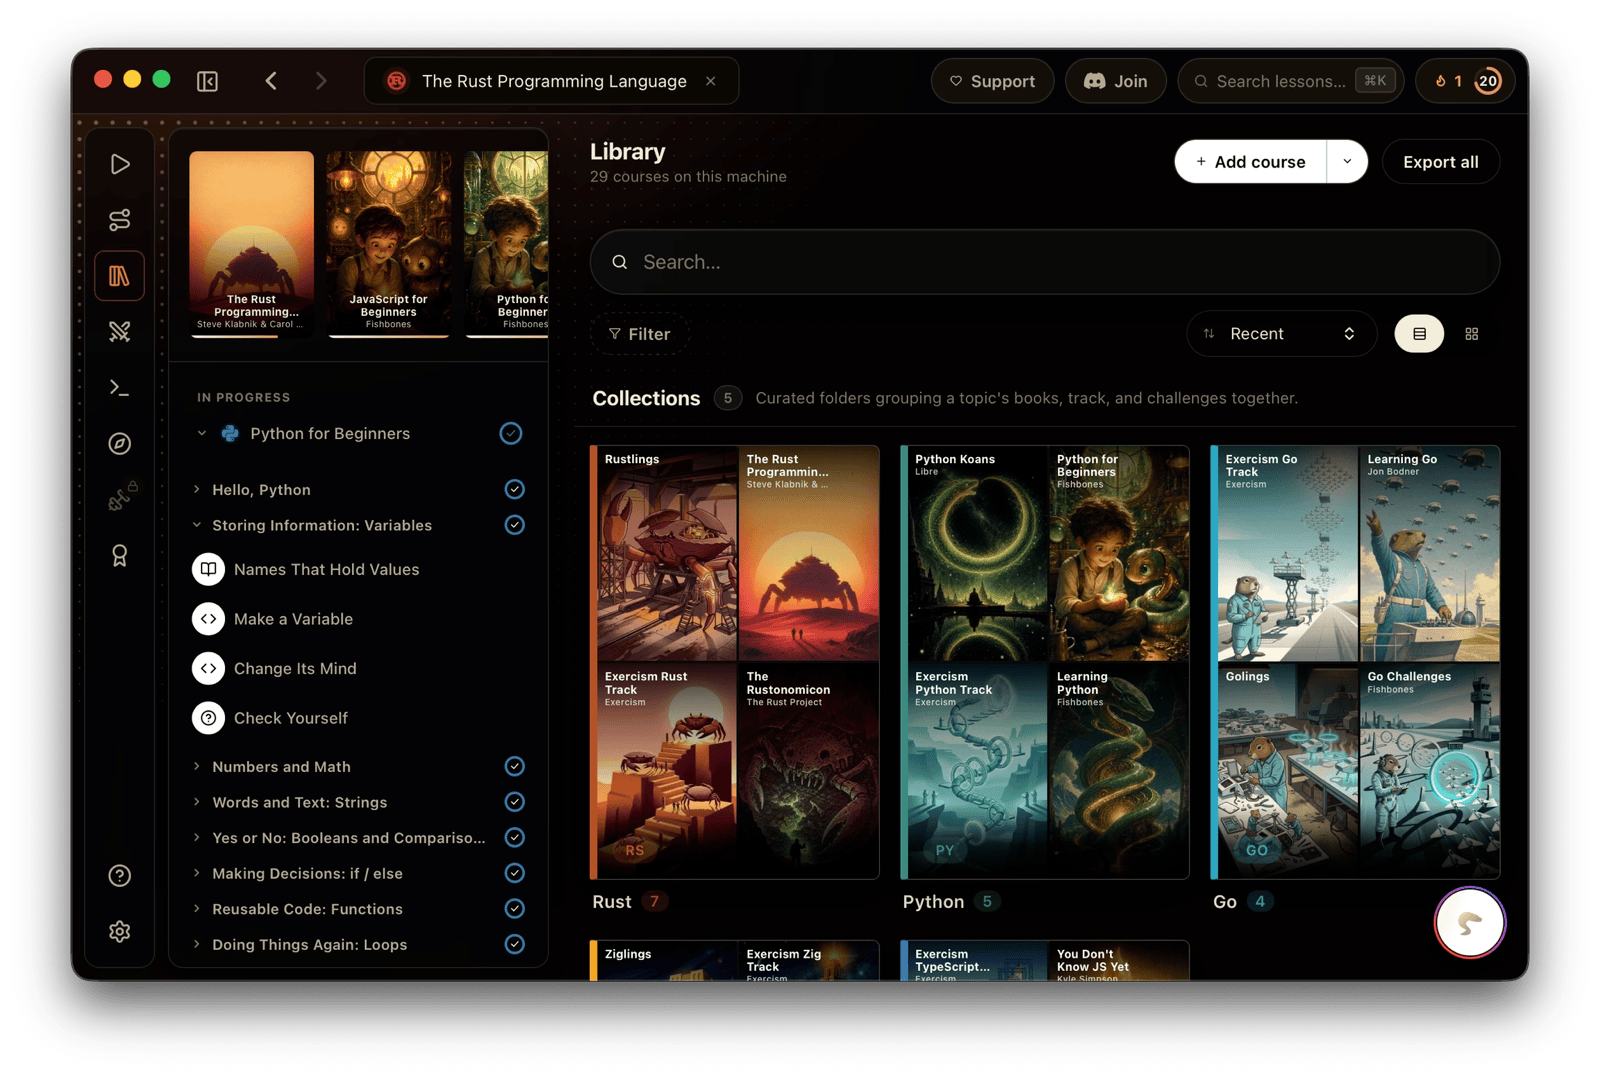
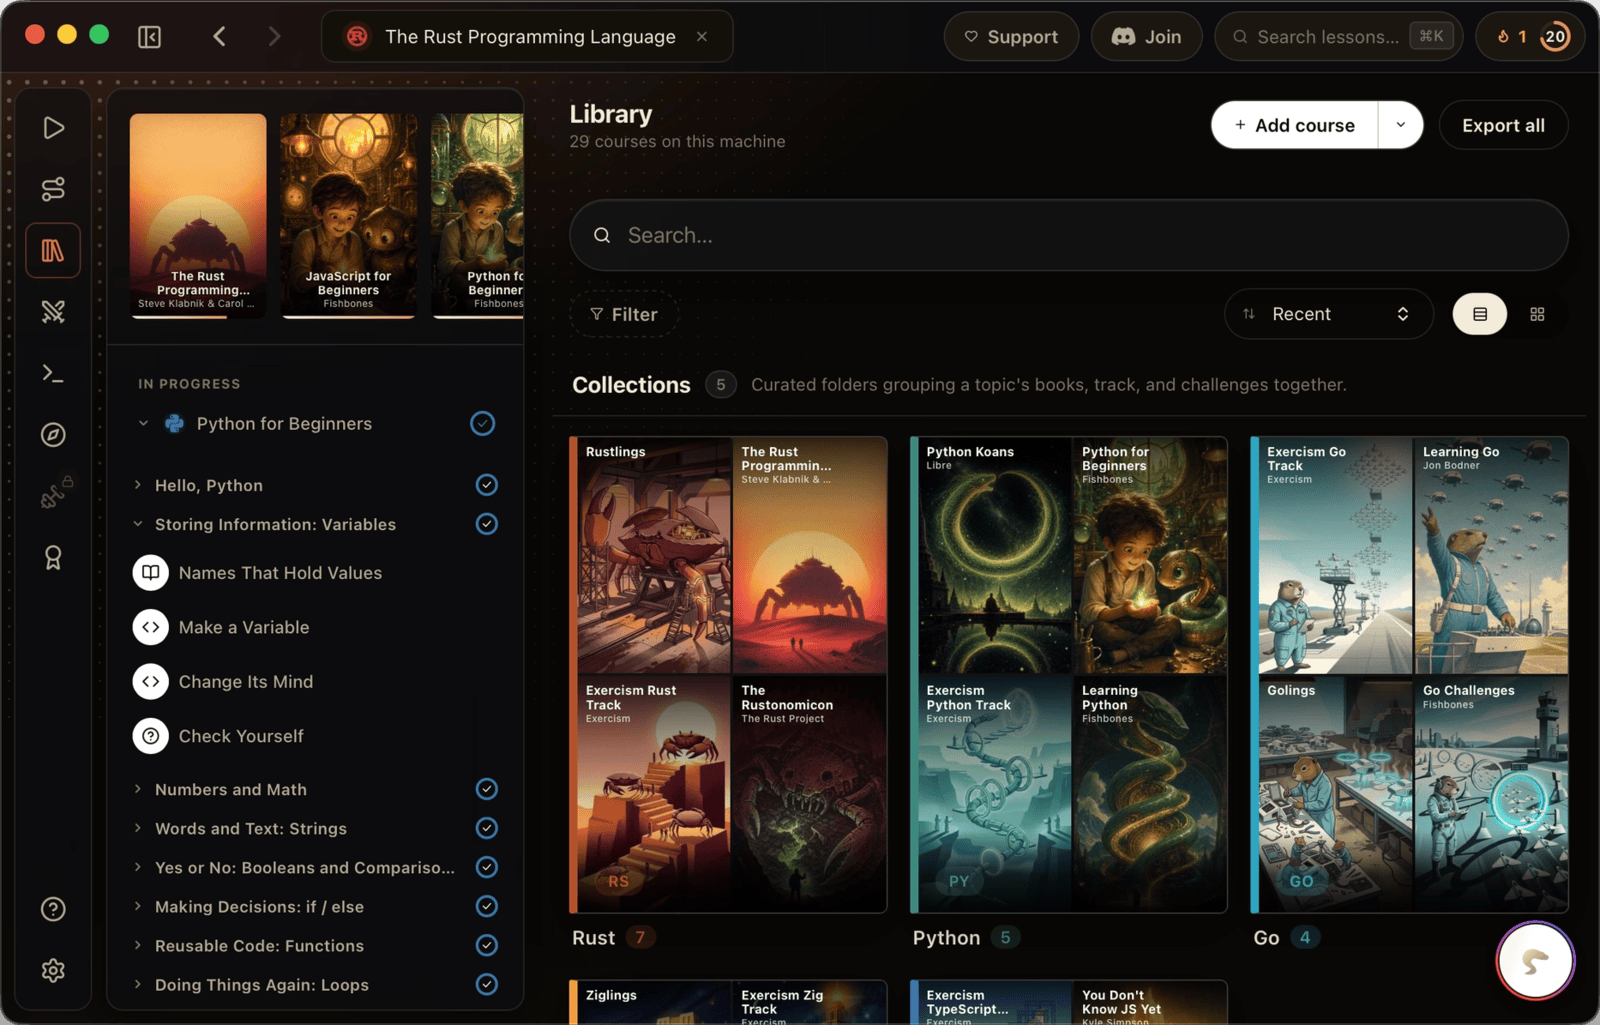
Turn the homepage app shot into a screenshot carousel
Crop each screenshot tight to the window (alpha-threshold trim drops the
transparent macOS shadow margin — the 'white space'), and swap the single
framed shot for an auto-advancing crossfade carousel (pause on hover,
arrows + pill dots, reduced-motion safe). Seeds with the library +
collections-lesson shots.

diff --git a/src/components/ScreenshotCarousel.tsx b/src/components/ScreenshotCarousel.tsx
@@ -1,0 +1,98 @@
+/// A small auto-advancing carousel of app screenshots for the homepage.
+/// Slides crossfade (opacity only — cheap + GPU-composited), auto-advance
+/// every few seconds, pause on hover/focus, and can be driven by the dots
+/// or the hover arrows. `prefers-reduced-motion` stops the auto-advance
+/// and the fade, leaving a manually-navigable gallery.
+
+import { useEffect, useState } from "react";
+import { useReducedMotion } from "framer-motion";
+import { ChevronLeft, ChevronRight } from "lucide-react";
+import "./ScreenshotCarousel.css";
+
+export interface Shot {
+  src: string;
+  alt: string;
+}
+
+export function ScreenshotCarousel({
+  images,
+  interval = 5000,
+}: {
+  images: Shot[];
+  interval?: number;
+}) {
+  const [index, setIndex] = useState(0);
+  const [paused, setPaused] = useState(false);
+  const reduce = useReducedMotion();
+  const n = images.length;
+
+  const go = (i: number) => setIndex(((i % n) + n) % n);
+
+  useEffect(() => {
+    if (reduce || paused || n <= 1) return;
+    const id = setInterval(() => setIndex((x) => (x + 1) % n), interval);
+    return () => clearInterval(id);
+  }, [reduce, paused, n, interval]);
+
+  return (
+    <div
+      className="shotcar"
+      onMouseEnter={() => setPaused(true)}
+      onMouseLeave={() => setPaused(false)}
+      onFocusCapture={() => setPaused(true)}
+      onBlurCapture={() => setPaused(false)}
+    >
+      <div className="shotcar__frame">
+        {images.map((img, i) => (
+          <img
+            key={img.src}
+            src={img.src}
+            alt={i === index ? img.alt : ""}
+            className={`shotcar__img${i === index ? " shotcar__img--active" : ""}`}
+            draggable={false}
+            loading={i === 0 ? "eager" : "lazy"}
+            decoding="async"
+            aria-hidden={i !== index}
+          />
+        ))}
+
+        {n > 1 && (
+          <>
+            <button
+              type="button"
+              className="shotcar__arrow shotcar__arrow--prev"
+              onClick={() => go(index - 1)}
+              aria-label="Previous screenshot"
+            >
+              <ChevronLeft size={20} />
+            </button>
+            <button
+              type="button"
+              className="shotcar__arrow shotcar__arrow--next"
+              onClick={() => go(index + 1)}
+              aria-label="Next screenshot"
+            >
+              <ChevronRight size={20} />
+            </button>
+          </>
+        )}
+      </div>
+
+      {n > 1 && (
+        <div className="shotcar__dots" role="tablist" aria-label="Screenshots">
+          {images.map((img, i) => (
+            <button
+              key={img.src}
+              type="button"
+              className={`shotcar__dot${i === index ? " shotcar__dot--active" : ""}`}
+              onClick={() => setIndex(i)}
+              aria-label={`Show screenshot ${i + 1} of ${n}`}
+              aria-selected={i === index}
+              role="tab"
+            />
+          ))}
+        </div>
+      )}
+    </div>
+  );
+}

diff --git a/src/components/ScreenshotCarousel.css b/src/components/ScreenshotCarousel.css
@@ -1,0 +1,104 @@
+/* Homepage app-screenshot carousel. See ScreenshotCarousel.tsx. */
+
+.shotcar {
+  max-width: 1080px;
+  margin: 0 auto;
+}
+
+.shotcar__frame {
+  position: relative;
+  width: 100%;
+  /* Fixed ratio so the box never reflows between slides (the cropped
+     shots are ~1.56:1). */
+  aspect-ratio: 1600 / 1025;
+  border-radius: 16px;
+  overflow: hidden;
+  border: 1px solid color-mix(in srgb, #ffffff 12%, transparent);
+  /* Floating app-window look: deep drop shadow + a faint amber glow. */
+  box-shadow:
+    0 40px 90px -30px rgba(0, 0, 0, 0.85),
+    0 0 70px -24px rgba(242, 169, 59, 0.22);
+  background: var(--color-bg-secondary, #18181b);
+}
+
+.shotcar__img {
+  position: absolute;
+  inset: 0;
+  width: 100%;
+  height: 100%;
+  object-fit: cover;
+  opacity: 0;
+  transition: opacity 0.6s ease;
+  pointer-events: none;
+}
+
+.shotcar__img--active {
+  opacity: 1;
+}
+
+.shotcar__arrow {
+  position: absolute;
+  top: 50%;
+  transform: translateY(-50%);
+  width: 40px;
+  height: 40px;
+  display: inline-flex;
+  align-items: center;
+  justify-content: center;
+  border-radius: 999px;
+  background: rgba(9, 9, 11, 0.55);
+  border: 1px solid color-mix(in srgb, #ffffff 14%, transparent);
+  color: #fff;
+  backdrop-filter: blur(8px);
+  -webkit-backdrop-filter: blur(8px);
+  cursor: pointer;
+  opacity: 0;
+  transition: opacity 0.2s ease, background 0.15s ease;
+}
+
+.shotcar:hover .shotcar__arrow,
+.shotcar:focus-within .shotcar__arrow {
+  opacity: 1;
+}
+
+.shotcar__arrow:hover {
+  background: rgba(9, 9, 11, 0.82);
+}
+
+.shotcar__arrow--prev {
+  left: 14px;
+}
+.shotcar__arrow--next {
+  right: 14px;
+}
+
+.shotcar__dots {
+  display: flex;
+  justify-content: center;
+  gap: 9px;
+  margin-top: 18px;
+}
+
+.shotcar__dot {
+  width: 8px;
+  height: 8px;
+  border-radius: 999px;
+  background: color-mix(in srgb, #ffffff 22%, transparent);
+  border: none;
+  padding: 0;
+  cursor: pointer;
+  transition: background 0.2s ease, width 0.2s ease;
+}
+
+.shotcar__dot--active {
+  background: var(--color-accent-warm, #e8954a);
+  width: 22px;
+}
+
+@media (max-width: 720px) {
+  .shotcar__arrow {
+    opacity: 1; /* no hover on touch — keep arrows visible */
+    width: 36px;
+    height: 36px;
+  }
+}

diff --git a/src/pages/Home.tsx b/src/pages/Home.tsx
@@ -20,7 +20,20 @@ import { MoreComparisons } from "../components/MoreComparisons";
 import { LogoHero } from "../components/LogoHero";
 import { ParallaxBg } from "../components/ParallaxBg";
 import { ScrollAsset } from "../components/ScrollAsset";
+import { ScreenshotCarousel } from "../components/ScreenshotCarousel";
 import "./Home.css";
+
+/// App screenshots for the homepage carousel.
+const APP_SHOTS = [
+  {
+    src: "/screenshots/app-library.png",
+    alt: "The Libre Academy desktop app library — Rust, Python and Go course collections with a Python course in progress.",
+  },
+  {
+    src: "/screenshots/app-collections.png",
+    alt: "A Rust lesson on collections, with the course outline, a progress certificate and an illustrated concept card.",
+  },
+];
 
 /// Homepage architecture:
 ///   1. Hero (SEO H1: "Free interactive coding courses…") with
@@ -204,20 +217,10 @@ export function Home() {
         <div className="app-shot__head">
           <span className="section__eyebrow">The desktop app</span>
           <h2 className="section__title section__title--centered">
-            Your whole library, in one window.
+            The whole app, in one window.
           </h2>
         </div>
-        <figure className="app-shot__frame">
-          <img
-            src="/screenshots/app-library.png"
-            alt="The Libre Academy desktop app showing the course library with Rust, Python and Go collections and a Python course in progress."
-            className="app-shot__img"
-            width={1600}
-            height={1075}
-            loading="lazy"
-            decoding="async"
-          />
-        </figure>
+        <ScreenshotCarousel images={APP_SHOTS} />
       </motion.section>
 
       {/* ─── Feature cards ──────────────────────────────── */}

diff --git a/src/pages/Home.css b/src/pages/Home.css
@@ -630,27 +630,6 @@
   margin: 0 auto 40px;
 }
 
-.app-shot__frame {
-  position: relative;
-  margin: 0 auto;
-  max-width: 1080px;
-  border-radius: 16px;
-  overflow: hidden;
-  border: 1px solid color-mix(in srgb, #ffffff 12%, transparent);
-  /* Floating app-window look: deep drop shadow + a faint amber glow that
-     ties the shot to the brand accent. */
-  box-shadow:
-    0 40px 90px -30px rgba(0, 0, 0, 0.85),
-    0 0 70px -24px rgba(242, 169, 59, 0.22);
-  background: var(--color-bg-secondary, #18181b);
-}
-
-.app-shot__img {
-  display: block;
-  width: 100%;
-  height: auto;
-}
-
 /* ─── Responsive ─────────────────────────────────────── */
 
 @media (max-width: 1000px) {
